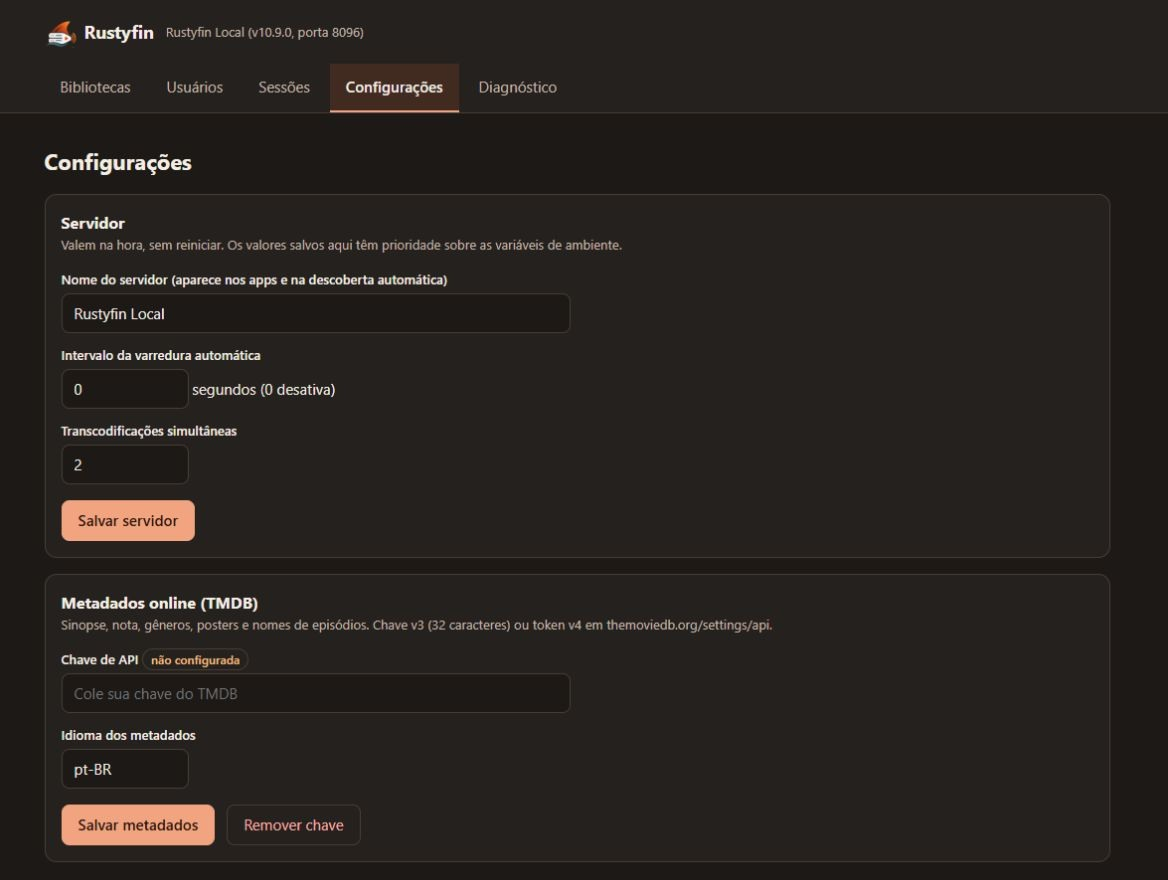
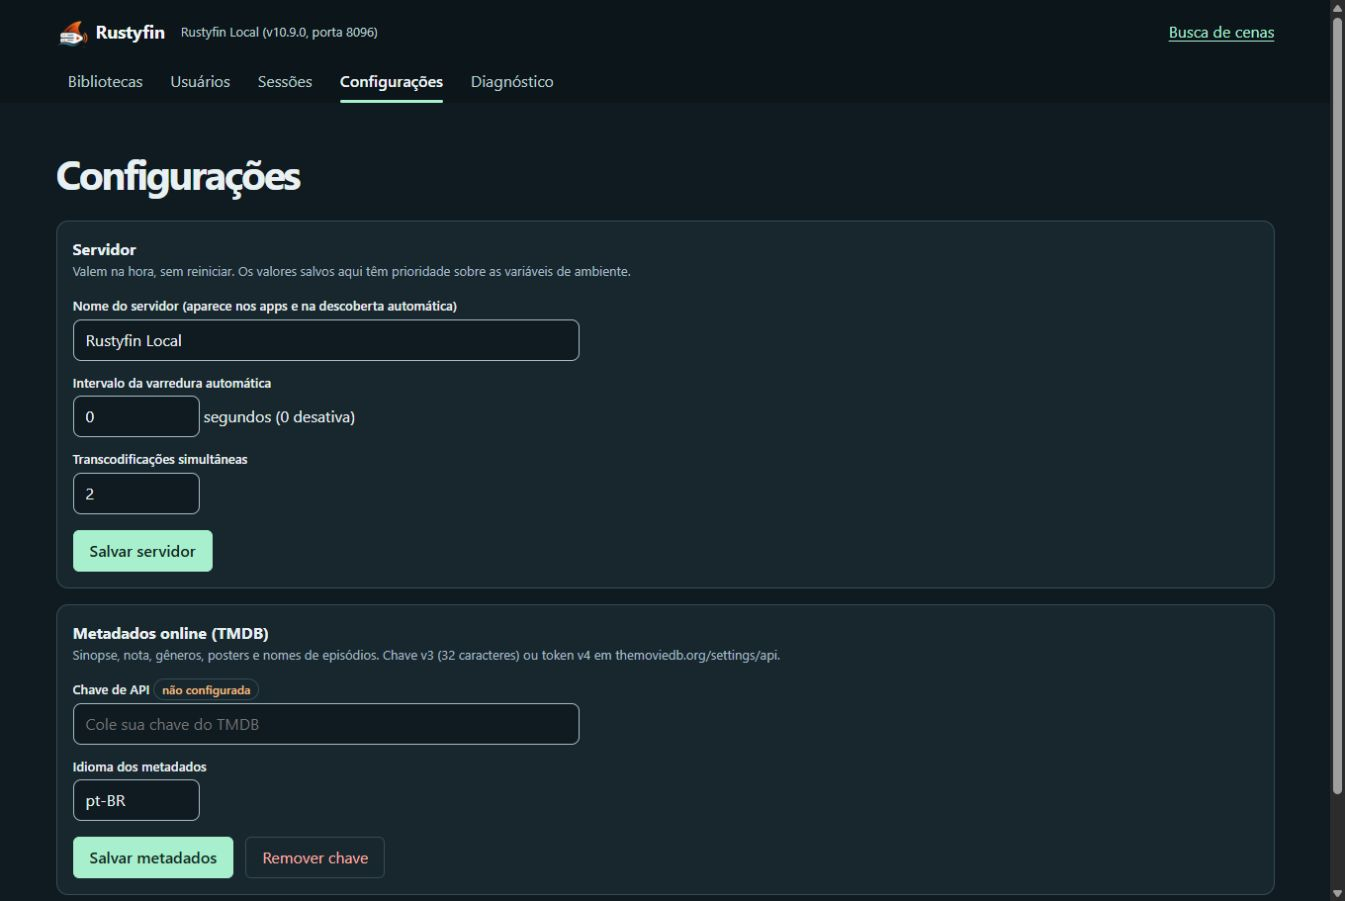
docs: atualiza as capturas do painel no README

Changed region(s): [[0.0308, 0.1534, 0.9555, 1.0], [0.0, 0.0, 1.0, 1.0]]

diff --git a/README.md b/README.md
@@ -101,12 +101,16 @@ cargo run --release
 
 <table>
   <tr>
-    <td><img src="docs/assets/painel-bibliotecas.jpg" alt="Prévia de retomada entre edições no painel de Bibliotecas"></td>
-    <td><img src="docs/assets/painel-usuarios.jpg" alt="Usuários"></td>
+    <td><img src="docs/assets/painel-bibliotecas.jpg" alt="Diretório de bibliotecas com varredura e manutenção ao lado"></td>
+    <td><img src="docs/assets/painel-usuarios.jpg" alt="Usuários e permissões de acesso às bibliotecas"></td>
   </tr>
   <tr>
     <td><img src="docs/assets/painel-sessoes.jpg" alt="Sessões e dispositivos"></td>
-    <td><img src="docs/assets/painel-status.jpg" alt="Diagnóstico antes do Play comparando dois dispositivos"></td>
+    <td><img src="docs/assets/painel-status.jpg" alt="Diagnóstico do servidor com contagem do acervo e estado dos serviços"></td>
+  </tr>
+  <tr>
+    <td><img src="docs/assets/painel-configuracoes.jpg" alt="Configurações do servidor e dos metadados"></td>
+    <td><img src="docs/assets/busca-cenas.jpg" alt="Busca de cenas com horários, falas encontradas e filtro de spoilers"></td>
   </tr>
 </table>
 
